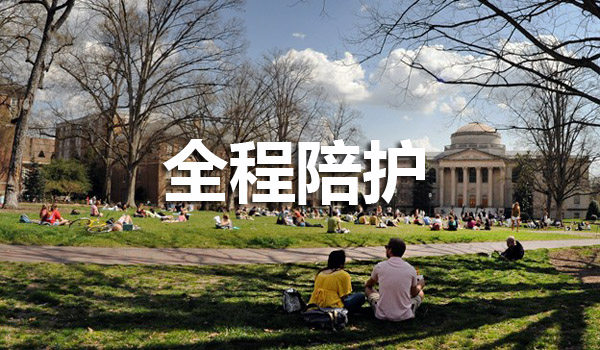
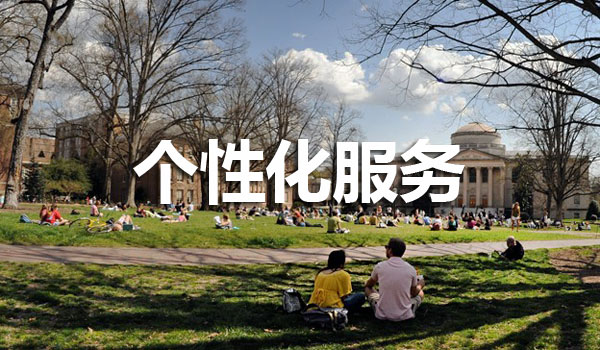
change words

Changed region(s): [[0.21, 0.4, 0.78, 0.6]]

diff --git a/yiyaweb/templates/index.html b/yiyaweb/templates/index.html
@@ -81,7 +81,7 @@
 		<div class = "row">
 			<div class = "col-xs-12">
 				<h4 class ="text-center">私人定制，无限可能</h4>
-				<p>&nbsp;&nbsp;&nbsp;&nbsp;&nbsp;&nbsp;&nbsp;&nbsp;来自美国本土的络雅教育，与多所美国知名大学及高中合作，秉承提供 “最前沿的教育咨询，最具个性化私人定制”的服务理念，为中国学生提供最优质的申请服务。服务包括<strong>留学申请咨询、美国中小学申请，美国大学申请、学院转大学直通车、开除紧急应对</strong>等，让每位学生进入理想院校，享受最佳教育资源。</p>
+				<p>&nbsp;&nbsp;&nbsp;&nbsp;&nbsp;&nbsp;&nbsp;&nbsp;来自美国本土的络雅教育，与多所美国知名大学及高中合作，秉承提供 “前沿教育咨询，最具个性化私人定制”的服务理念，为中国学生提供优质的申请服务。服务包括<strong>留学申请咨询、美国中小学申请，美国大学申请、学院转大学直通车、开除紧急应对</strong>等，帮助每位学生进入理想院校，享受优质教育资源。</p>
 				<br>
 
 				<h4 class ="text-center">专业服务，源自美国</h4>
@@ -129,7 +129,7 @@
 					<li><strong>学校资源全解析</strong>，提供第一手学校及学校录取咨询。</li>
 					<li>帮助学生深度自我挖掘，寻找最适合的专业，尽早制定未来职业规划。</li>
 					<li>申请环节公开透明，即时申请进程报告和反馈。</li>
-					<li>利用与多所本地及外地学校合作优势，为学生提供最佳申请结果，为优秀申请学生<strong>争取奖学金</strong>机会。</li>
+					<li>利用与多所本地及外地学校合作优势，为优秀申请学生<strong>争取奖学金</strong>机会，帮助学生成就卓越。</li>
 				</ul>
 				
 			</div>
@@ -148,7 +148,7 @@
 				<ul>
 					<li>按需求定制学校参观行程，<strong>全程翻译陪同学校参观</strong>，与学校老师无障碍沟通，做学生与家长最放心的选校助手。</li>
 					<li>一对一专业选校咨询与学业规划，让您赢在起跑线。</li>
-					<li>文书写作指导、润色，向学校展现最佳的你。</li>
+					<li>文书写作指导、润色，向学校展现出众的你。</li>
 					<li><strong>全程跟踪申请</strong>，随时与学生及家长进行沟通和汇报。</li>
 					<li>生活学习问题紧急处理，解决家长与学生的后顾之忧。</li>
 					
@@ -169,7 +169,7 @@
 	</div>
 	<div class = "row">
 		<div class = "col-xs-12">
-			<p>&nbsp;&nbsp;&nbsp;&nbsp;&nbsp;&nbsp;&nbsp;&nbsp;主营<strong>新生申请，转学</strong>等服务。针对低龄学生。由专业的申请咨询师为每位学生定制个人申请计划。提供详细的选校参考，以充足的本地资源提供最优质服务。</p>
+			<p>&nbsp;&nbsp;&nbsp;&nbsp;&nbsp;&nbsp;&nbsp;&nbsp;核心服务为<strong>新生申请，转学</strong>等。针对低龄学生。由专业的申请咨询师为每位学生定制个人申请计划。提供详细的选校参考，以充足的本地资源提供最优质服务。</p>
 			<br>
 		</div>
 	</div>
@@ -270,7 +270,7 @@
 		</div>
 		<div class = "row">
 			<div class = "col-xs-12">
-				<p>&nbsp;&nbsp;&nbsp;&nbsp;&nbsp;&nbsp;&nbsp;&nbsp;主营<strong>本科专业、社会学院、或语言类院校申请以及开除紧急应对</strong>等服务。为您提供美国申请流程全解析，针对每位学生提供美国大学专业及就业分析。专业的申请团队为您打造最佳个人申请方案。一对一咨询，专业咨询帮助学生充分挖掘自身优势，突出每位学生的专业潜能，制定独一无二的申请。</p>
+				<p>&nbsp;&nbsp;&nbsp;&nbsp;&nbsp;&nbsp;&nbsp;&nbsp;主要服务为<strong>本科、社区学院、或语言类院校申请，转学，以及开除紧急应对</strong>等。为您提供美国申请流程全解析，针对每位学生，提供不同美国大学专业及就业分析。专业的申请团队为您打造最佳个人申请方案。一对一咨询，专业咨询帮助学生充分挖掘自身优势，突出每位学生的专业潜能，制定独一无二的申请。</p>
 				<br>
 			</div>
 		</div>
@@ -287,7 +287,7 @@
 					</div>
 					<br>
 					<div class = "row">
-						<p>根据学生不同的要求及英文水平为学生进行本科专业、社会大学、或语言类院校申请。为优秀申请者争取奖学金名额。利用与多所本地及外地学校合作优势，为学生提供最佳申请结果。</p>
+						<p>根据学生不同的要求及英文水平为学生进行本科专业、社会大学、或语言类院校申请。为优秀申请者争取奖学金名额。利用与多所本地及外地学校合作优势，为学生申请提供先机。</p>
 					</div>
 				</div>
 				<br>
@@ -305,7 +305,7 @@
 					</div>
 					<br>
 					<div class = "row">
-						<p>为语言及社大学生提供转学、转专业指导及相关服务，专业的学业规划将每一学期的学习效率最大化，帮助学生尽早进入理想高校。</p>
+						<p>为语言及社区学院学生提供转学、转专业指导及相关服务，专业的学业规划帮助学生尽早修完专业基础课程，提升每学期的学习效率，转学时做到学分转换最大化。</p>
 					</div>
 				</div>
 				<br>
